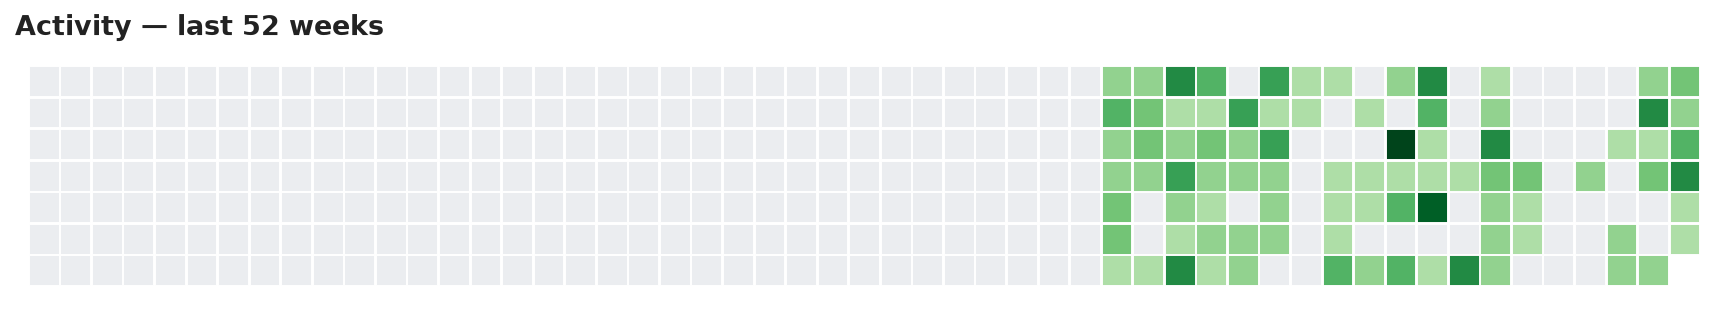
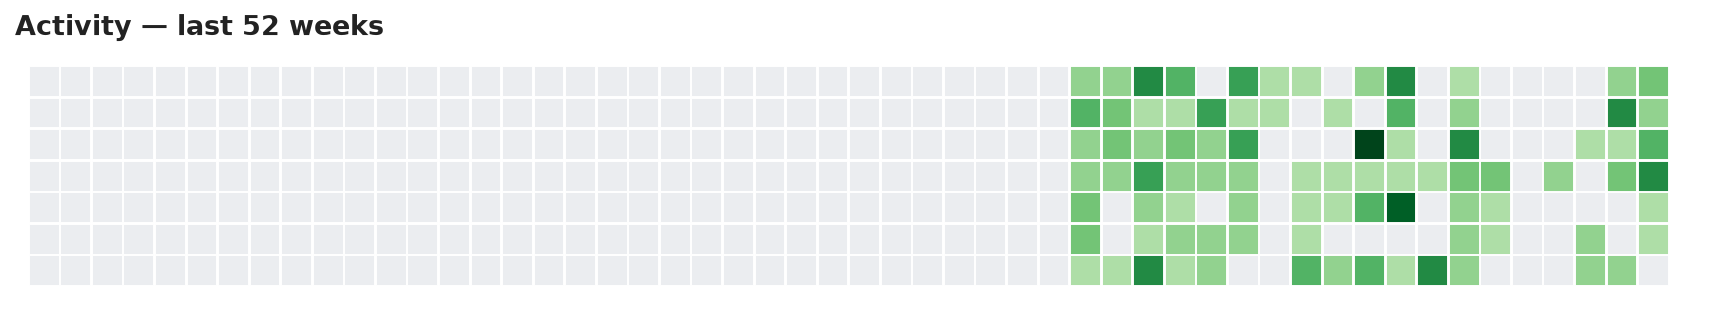
Sync: refresh analytics (rating/streak update, no new problems)

Changed region(s): [[0.5917, 0.2, 0.9965, 0.9143]]

diff --git a/README.md b/README.md
@@ -4,7 +4,7 @@ Auto-generated archive of accepted Codeforces submissions for **[om_sharma_](htt
 
 - **Total solved:** 215
 - **With source attached:** 0 / 215
-- **Longest streak:** 8 days  |  **Current streak:** 7 days
+- **Longest streak:** 8 days  |  **Current streak:** 0 days
 - **Contest rating:** 1102 (max 1299)
 
 ## 📊 Analytics
